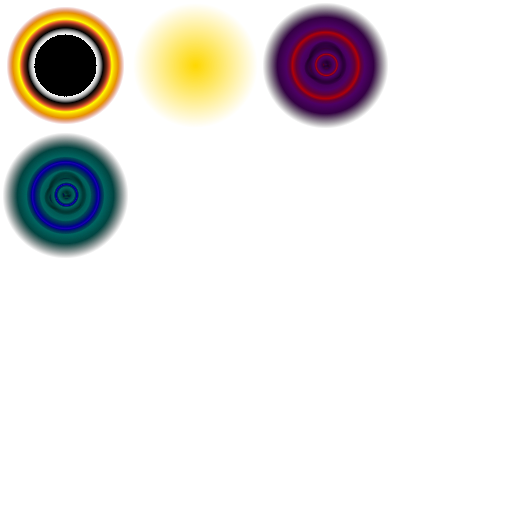
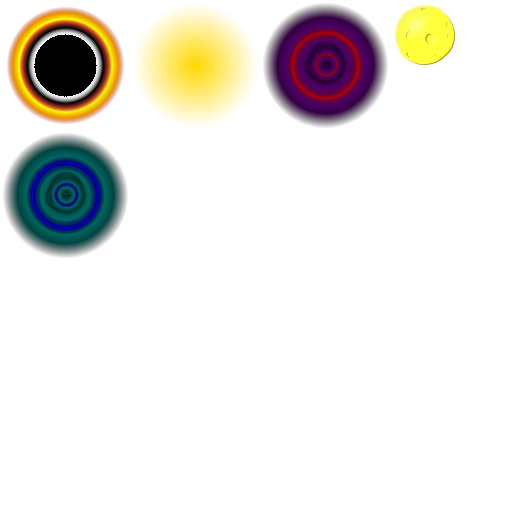
game

Changed region(s): [[0.75, 0.0, 0.9062, 0.125]]

diff --git a/src/games/Gravity/c2runtime.js b/src/games/Gravity/c2runtime.js
@@ -29708,7 +29708,7 @@ cr.getProjectModel = function() { return [
 		[],
 		0,
 		0,
-		["images/tiledbackground.png", 108, 1],
+		["images/tiledbackground.png", 770570, 1],
 		null,
 		[
 		],
@@ -29736,10 +29736,11 @@ cr.getProjectModel = function() { return [
 			false,
 			4242281331911462,
 			[
-				["images/planet-sheet0.png", 79003, 1, 1, 128, 128, 1, 0.5, 0.5,[],[-0.3046869933605194,-0.3046869933605194,0,-0.4296875,0.3046879768371582,-0.3046869933605194,0.4374999403953552,0,0.3125,0.3125,0,0.4374999403953552,-0.3046869933605194,0.3046879768371582,-0.4296875,0],0],
-				["images/planet-sheet0.png", 79003, 131, 1, 128, 128, 1, 0.5, 0.5,[],[-0.1640619933605194,-0.1640619933605194,0,-0.2421869933605194,0.171875,-0.171875,0.25,0,0.1796879768371582,0.1796879768371582,0,0.25,-0.171875,0.171875,-0.2421869933605194,0],0],
-				["images/planet-sheet0.png", 79003, 261, 1, 128, 128, 1, 0.5, 0.5,[],[-0.3046869933605194,-0.3046869933605194,0,-0.4296875,0.3046879768371582,-0.3046869933605194,0.4374999403953552,0,0.3125,0.3125,0,0.4374999403953552,-0.3046869933605194,0.3046879768371582,-0.4296875,0],0],
-				["images/planet-sheet0.png", 79003, 1, 131, 128, 128, 1, 0.5, 0.5,[],[-0.3046869933605194,-0.3046869933605194,0,-0.4296875,0.3046879768371582,-0.3046869933605194,0.4374999403953552,0,0.3125,0.3125,0,0.4374999403953552,-0.3046869933605194,0.3046879768371582,-0.4296875,0],0]
+				["images/planet-sheet0.png", 84191, 1, 1, 128, 128, 1, 0.5, 0.5,[],[-0.3046869933605194,-0.3046869933605194,0,-0.4296875,0.3046879768371582,-0.3046869933605194,0.4374999403953552,0,0.3125,0.3125,0,0.4374999403953552,-0.3046869933605194,0.3046879768371582,-0.4296875,0],0],
+				["images/planet-sheet0.png", 84191, 131, 1, 128, 128, 1, 0.5, 0.5,[],[-0.1640619933605194,-0.1640619933605194,0,-0.2421869933605194,0.171875,-0.171875,0.25,0,0.1796879768371582,0.1796879768371582,0,0.25,-0.171875,0.171875,-0.2421869933605194,0],0],
+				["images/planet-sheet0.png", 84191, 261, 1, 128, 128, 1, 0.5, 0.5,[],[-0.3046869933605194,-0.3046869933605194,0,-0.4296875,0.3046879768371582,-0.3046869933605194,0.4374999403953552,0,0.3125,0.3125,0,0.4374999403953552,-0.3046869933605194,0.3046879768371582,-0.4296875,0],0],
+				["images/planet-sheet0.png", 84191, 1, 131, 128, 128, 1, 0.5, 0.5,[],[-0.3046869933605194,-0.3046869933605194,0,-0.4296875,0.3046879768371582,-0.3046869933605194,0.4374999403953552,0,0.3125,0.3125,0,0.4374999403953552,-0.3046869933605194,0.3046879768371582,-0.4296875,0],0],
+				["images/planet-sheet0.png", 84191, 391, 1, 64, 64, 1, 0.5, 0.5,[],[-0.296875,-0.296875,0,-0.421875,0.328125,-0.328125,0.5,0,0.359375,0.359375,0,0.5,-0.328125,0.328125,-0.421875,0],0]
 			]
 			]
 		],
@@ -29891,6 +29892,23 @@ cr.getProjectModel = function() { return [
 		null
 		,[]
 	]
+,	[
+		"t11",
+		cr.plugins_.TiledBg,
+		false,
+		[],
+		0,
+		0,
+		["images/tiledbackground2.png", 83006, 0],
+		null,
+		[
+		],
+		false,
+		false,
+		3366124888754869,
+		[],
+		null
+	]
 	],
 	[
 	],
@@ -29920,8 +29938,8 @@ cr.getProjectModel = function() { return [
 			[
 			[
 				[0, 0, 0, 800, 480, 0, 0, 1, 0, 0, 0, 0, []],
-				3,
-				33,
+				11,
+				73,
 				[
 				],
 				[
@@ -29932,9 +29950,9 @@ cr.getProjectModel = function() { return [
 				]
 			]
 ,			[
-				[105, 99, 0, 621, 89, 0, 0, 1, 0, 0, 0, 0, []],
+				[88, 141, 0, 621, 89, 0, 0, 1, 0, 0, 0, 0, []],
 				8,
-				34,
+				33,
 				[
 				],
 				[
@@ -29952,9 +29970,9 @@ cr.getProjectModel = function() { return [
 				]
 			]
 ,			[
-				[102, 197, 0, 621, 89, 0, 0, 1, 0, 0, 0, 0, []],
+				[85, 239, 0, 621, 89, 0, 0, 1, 0, 0, 0, 0, []],
 				8,
-				35,
+				34,
 				[
 				],
 				[
@@ -32112,7 +32130,7 @@ cr.getProjectModel = function() { return [
 			[
 			[
 				[0, 0, 0, 800, 480, 0, 0, 1, 0, 0, 0, 0, []],
-				3,
+				11,
 				36,
 				[
 				],
@@ -32124,7 +32142,7 @@ cr.getProjectModel = function() { return [
 				]
 			]
 ,			[
-				[105, 99, 0, 621, 89, 0, 0, 1, 0, 0, 0, 0, []],
+				[101, 73, 0, 621, 89, 0, 0, 1, 0, 0, 0, 0, []],
 				8,
 				37,
 				[
@@ -32144,7 +32162,7 @@ cr.getProjectModel = function() { return [
 				]
 			]
 ,			[
-				[102, 197, 0, 621, 89, 0, 0, 1, 0, 0, 0, 0, []],
+				[98, 171, 0, 621, 89, 0, 0, 1, 0, 0, 0, 0, []],
 				8,
 				38,
 				[
@@ -32164,7 +32182,7 @@ cr.getProjectModel = function() { return [
 				]
 			]
 ,			[
-				[281, 257, 0, 263, 30, 0, 0, 1, 0, 0, 0, 0, []],
+				[277, 231, 0, 263, 30, 0, 0, 1, 0, 0, 0, 0, []],
 				9,
 				66,
 				[
